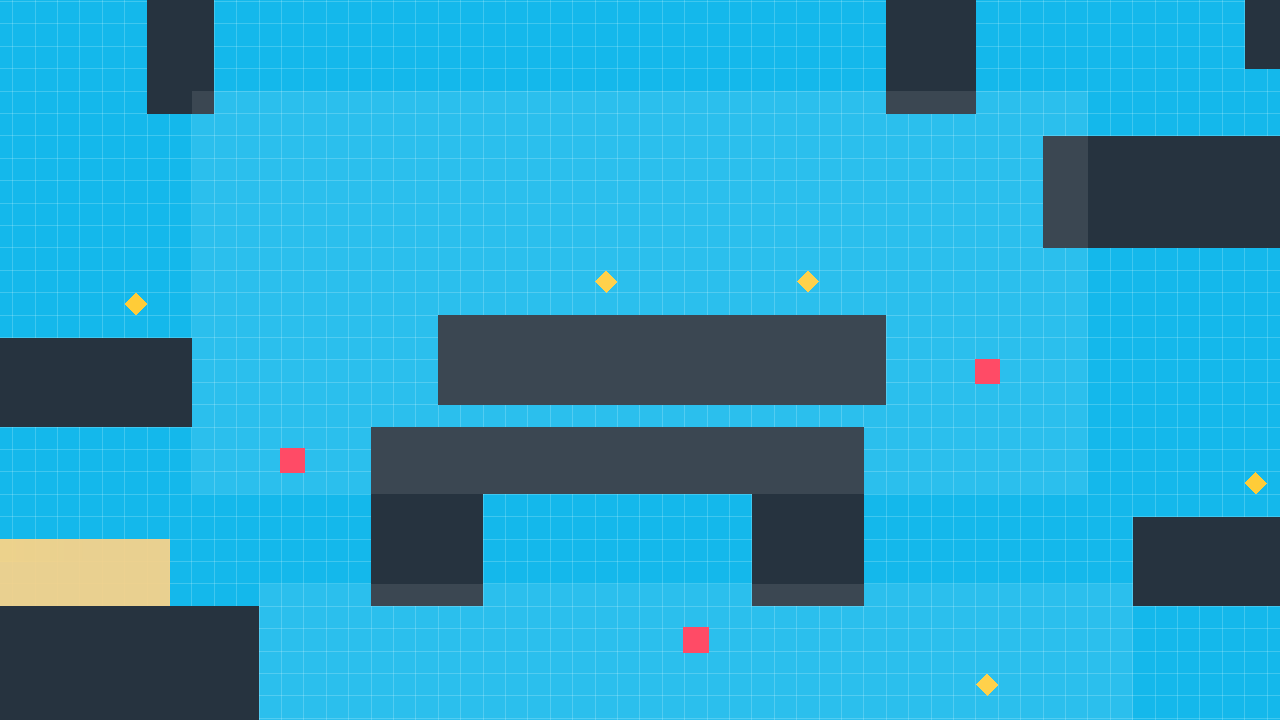
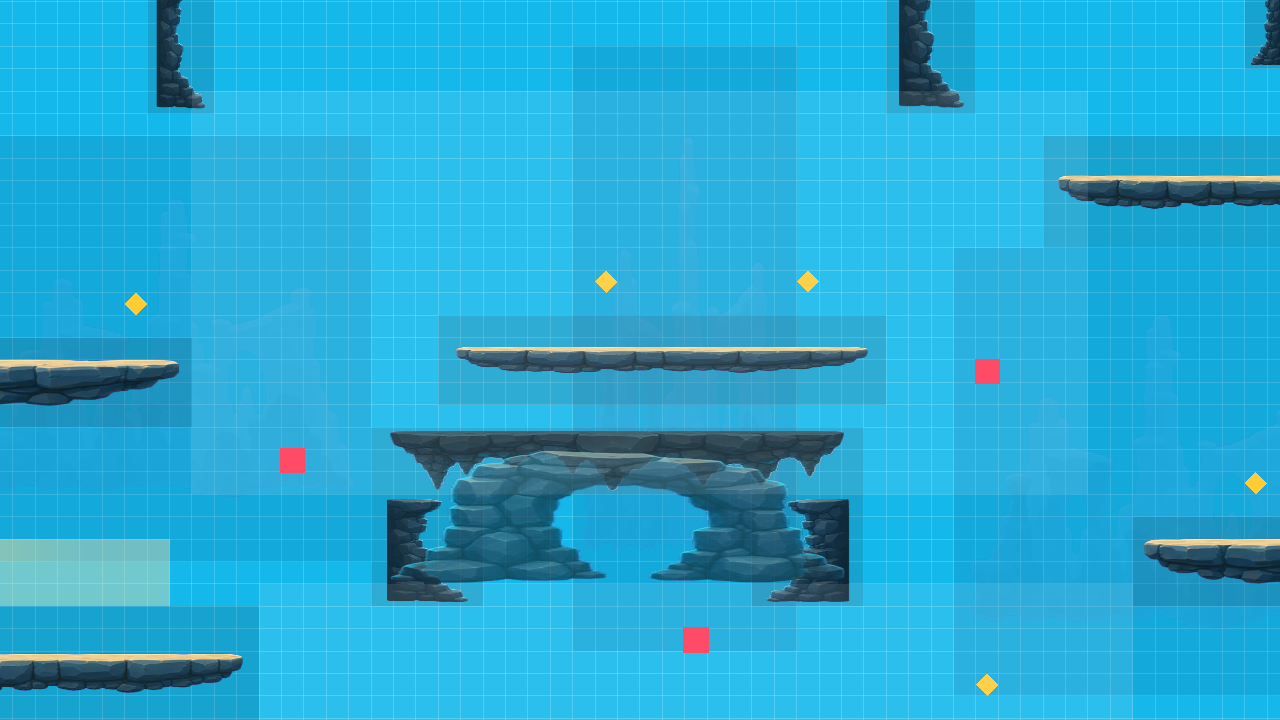
Place terrain art over greybox
Closes #3

diff --git a/docs/planning/TERRAIN_ART_PLACEMENT.md b/docs/planning/TERRAIN_ART_PLACEMENT.md
@@ -1,0 +1,55 @@
+# Terrain Art Placement Pass 01
+
+Issue: #3
+
+## Purpose
+
+This pass proves that generated modular terrain art can be layered over the runtime greybox without changing map topology, collision, or reachability.
+
+The source of truth remains:
+
+```text
+maps/cave_salvage_test_01.greybox.json
+```
+
+## Runtime Rule
+
+`scripts/world/greybox_world.gd` builds three separate concepts from the same JSON:
+
+- `SourceTileMapLayer`: faint greybox topology reference.
+- `Collision`: `StaticBody2D` rectangles generated only from `terrain` items.
+- `TerrainArt`: draft sprites scaled over those same terrain rectangles.
+
+Art sprites are not collision, and they do not define gameplay space.
+
+## Current Mapping
+
+| Map IDs | Art Asset |
+|---|---|
+| `bottom_floor`, `base_floor`, shelves | `terrain_floor_long_01.png` or `terrain_floor_short_01.png` |
+| `left_wall`, `central_arch_left_column` | `terrain_wall_left_01.png` |
+| `right_wall`, `central_arch_right_column` | `terrain_wall_right_01.png` |
+| `ceiling_*`, `central_arch_top` | `terrain_ceiling_01.png` |
+| `stalactite_*` | Wall modules used as temporary hanging rock columns |
+| `central_arch_*` group | Additional translucent `terrain_arch_01.png` overlay |
+| `background` rectangles | `background_rocks_01.png` |
+
+## Known Visual Mismatches
+
+Follow-up: #7
+
+- The modules are scaled to fit coarse collision rectangles, so some rock texture stretches on very wide or narrow blocks.
+- Stalactites are using wall modules as placeholders; they need dedicated hanging-rock art later.
+- The central arch overlay proves the idea but is not yet a clean custom-fit module.
+- The greybox source layer remains faintly visible on purpose so screenshots can confirm art did not hide the authored topology.
+- Props, salvage crates, hazards, vegetation, and final player art are still separate future passes.
+
+## Verification
+
+Run:
+
+```bash
+python tools/validate_greybox_map.py maps/cave_salvage_test_01.greybox.json
+```
+
+Then capture named Godot views and compare against the previous greybox baseline. Any topology problem should be fixed in the JSON map or converter, not by nudging art in the scene.

diff --git a/docs/current/ARCHITECTURE.md b/docs/current/ARCHITECTURE.md
@@ -24,6 +24,7 @@ The Godot scene reads this JSON at runtime. Do not hand-tune in-engine terrain t
 - `scenes/world/GreyboxWorld.tscn`
   - Runtime renderer for the greybox map.
   - Creates a `TileMapLayer` visual from the source JSON.
+  - Places draft terrain art sprites over the source rectangles.
   - Creates `StaticBody2D` collision rectangles from the same terrain data.
   - Draws background silhouettes, route markers, extraction zone, salvage, hazards, and spawn markers.
 
@@ -41,7 +42,7 @@ The Godot scene reads this JSON at runtime. Do not hand-tune in-engine terrain t
 
 - `scripts/world/greybox_world.gd`
   - Loads JSON.
-  - Builds the runtime TileMapLayer and collision.
+  - Builds the runtime TileMapLayer, draft terrain art overlay, and collision.
   - Keeps visuals tied to source topology.
   - Exposes `camera_tests` from the source map for repeatable visual captures.
 
@@ -49,9 +50,19 @@ The Godot scene reads this JSON at runtime. Do not hand-tune in-engine terrain t
   - Basic side-view swimming controller.
   - Supports arrow keys and WASD.
 
+## Visual Layering
+
+The world intentionally separates authored topology from art:
+
+- `SourceTileMapLayer` is the faint runtime reference for the JSON grid.
+- `TerrainArt` contains draft PNG modules scaled over the same terrain rectangles.
+- `Collision` is generated only from the JSON terrain data.
+
+Art placement must not create, remove, or move collision.
+
 ## Current Limits
 
-- Terrain art is still greybox only.
+- Terrain art is a first-pass overlay and not final production placement.
 - Collision is rectangular per terrain block.
 - No gameplay scoring yet.
 - Salvage and hazards are visual markers only.

diff --git a/docs/VISUAL_WORKFLOW.md b/docs/VISUAL_WORKFLOW.md
@@ -56,3 +56,7 @@ Expected difference: playable surfaces read more clearly while layout and props 
 ## Failure Condition
 
 A revision fails if it improves the target issue but also damages unrelated visuals, changes the map layout, changes perspective, changes scale, or introduces incompatible detail.
+
+## Terrain Placement Rule
+
+In-engine terrain art should be placed from the machine-readable map data. Do not hand-tune collision, routes, or topology in Godot to make an asset fit. If art reveals a real layout problem, update `maps/cave_salvage_test_01.greybox.json`, regenerate previews/captures, and rerun the accessibility validator.

diff --git a/README.md b/README.md
@@ -28,6 +28,7 @@ Build a small side-view salvage game that proves:
 - [Art Bible](docs/ART_BIBLE.md)
 - [Map Spec](docs/MAP_SPEC.md)
 - [Greybox Map 01](docs/planning/GREYBOX_MAP_01.md)
+- [Terrain Art Placement Pass 01](docs/planning/TERRAIN_ART_PLACEMENT.md)
 - [Visual Workflow](docs/VISUAL_WORKFLOW.md)
 - [Reference Standard](docs/REFERENCE_STANDARD.md)
 - [Asset Manifest](docs/ASSET_MANIFEST.md)
